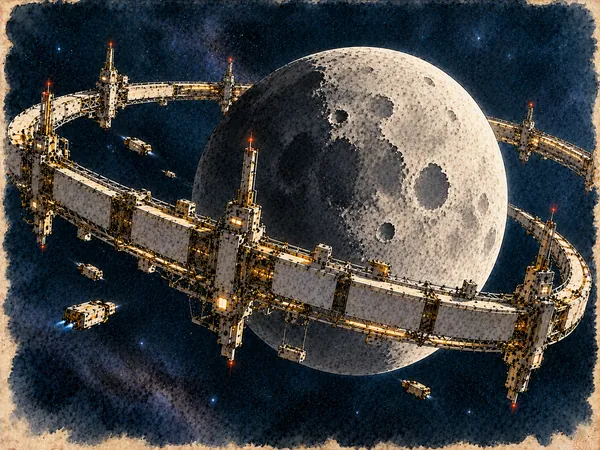
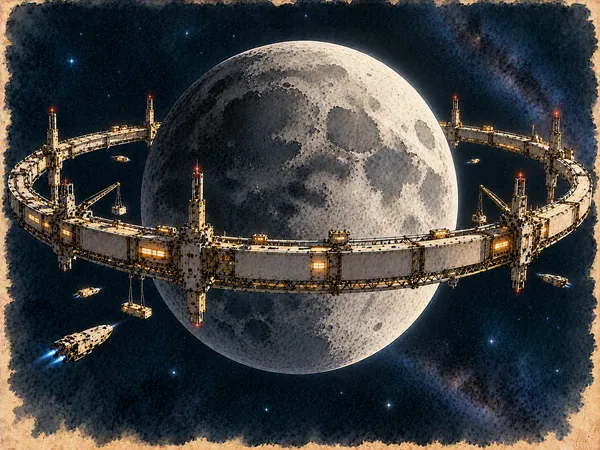
Brise-Monde : les étapes 1 et 3 depuis les originaux
brisemonde-1 (source n° 24, l’anneau autour de la Lune) et brisemonde-3
(source n° 21, la lentille gravitationnelle) refaits en 600 × 450 depuis
les images fournies. Reste dyson-2 (source n° 28) : l’étape montre
l’œuvre entière en attendant.

Claude-Session: https://claude.ai/code/session_016Z3gWY1EHBHLpTqGZYZZ65

diff --git a/js/data.js b/js/data.js
@@ -1070,7 +1070,7 @@
   /* Déchiffrer : révéler une recette inconnue étape par étape contre de l’Intuition */
   /* Illustrations des Grands Œuvres (assets/oeuvres/) : <id>.webp montre l’œuvre achevée ;
    * une étape qui a sa vignette la nomme ici, les autres reprennent l’œuvre entière. */
-  D.OEUVRE_ETAPES = { dyson: ["dyson-1", "", "dyson-3", "dyson-4"], brisemonde: ["brisemonde-1", "brisemonde-2", "", "brisemonde-4"] };
+  D.OEUVRE_ETAPES = { dyson: ["dyson-1", "", "dyson-3", "dyson-4"], brisemonde: ["brisemonde-1", "brisemonde-2", "brisemonde-3", "brisemonde-4"] };
   D.oeuvreArt = (pid, step) => ((D.OEUVRE_ETAPES[pid] || [])[step] || pid);
 
   D.DECHIFFRER = { cost: [3, 8, 20] };

diff --git a/sw.js b/sw.js
@@ -3,7 +3,7 @@
  * arrière-plan puis attend que le joueur l’accepte (bandeau dans le jeu), ce qui
  * lui laisse le temps de télécharger sa sauvegarde.
  * BUILD est recalculé par `node tools/build.js` : ne pas le modifier à la main. */
-const BUILD = "bc2daec0cb";
+const BUILD = "995dbf7790";
 const CACHE = "eclat-" + BUILD;
 const LEGACY = "eclat-v1"; // première version : « réseau d’abord », sans attente
 const FILES = [

diff --git a/assets/README-ILLUSTRATIONS.md b/assets/README-ILLUSTRATIONS.md
@@ -11,10 +11,10 @@ Illustrations sélectionnées et validées en conversation le 24 octobre 2026 (c
 - Tous les fichiers sont WebP, sans transparence, moins de 120 Ko. `ILLUSTRATIONS-MANIFEST.json` donne,
   pour chacun, son numéro dans la planche des sources (`source_index`).
 
-Manquent encore (l’étape reprend l’œuvre entière en attendant) :
-- `dyson-2.webp` : « Premier anneau », les premiers panneaux autour du Soleil (source n° 28) ;
-- `brisemonde-3.webp` : « Lentille gravitationnelle » (source n° 21).
+Manque encore (l’étape reprend l’œuvre entière en attendant) :
+- `dyson-2.webp` : « Premier anneau », les premiers panneaux autour du Soleil (source n° 28).
 
 Note (25 octobre 2026) : le premier export avait décalé d’un cran les sources à partir du n° 19
 (`chant` montrait le Brise-Monde, `brisemonde-3` la Cloche, les étapes de Dyson étaient mélangées).
-Les fichiers ont été remis à leur place ; `brisemonde-1` est la source n° 23, très proche de la n° 24 prévue.
+Les fichiers ont été remis à leur place ; `brisemonde-1` (n° 24) et `brisemonde-3` (n° 21) ont été refaits
+depuis les originaux.
